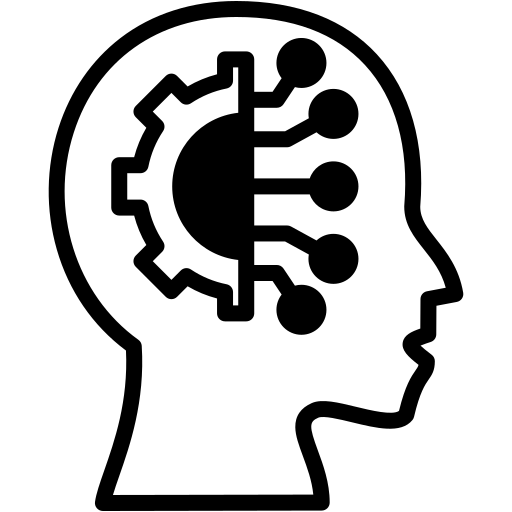
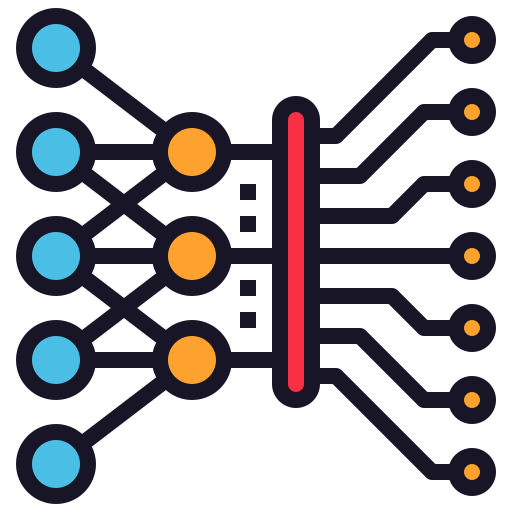
<>|Updated About and Navbar|

diff --git a/src/components/Section/About.jsx b/src/components/Section/About.jsx
@@ -10,6 +10,11 @@ import Docker from "../../assets/docker.png";
 import html from "../../assets/html-5.png";
 import cvision from "../../assets/vision.png";
 import github from "../../assets/git.png";
+import analytical from "../../assets/analytical-chart.png";
+import machinelearning from "../../assets/machine-learning.png";
+import deeplearning from "../../assets/deep-learning.png";
+
+
 
 const skills = [
   { name: "React", icon: structureIcon },
@@ -20,6 +25,9 @@ const skills = [
   { name: "HTML", icon: html },
   { name: "Computer Vision", icon: cvision },
   { name: "Git", icon: github },
+  { name: "Data Analysis", icon: analytical },
+  { name: "Machine Learning", icon: machinelearning },
+  { name: "Deep Learning", icon: deeplearning },
 ];
 
 export const About = () => {
@@ -70,11 +78,14 @@ export const About = () => {
             {skills.map((skill, i) => (
               <SwiperSlide key={i}>
                 <div
-  className="bg-gray-100 hover:bg-gray-200
-             dark:bg-gray-900 dark:hover:bg-gray-800
+  className="bg-transparent
+             hover:bg-gray-200/40
+             dark:hover:bg-white/10
              transition p-4 rounded-xl
-             flex flex-col items-center justify-center gap-2 h-32"
+             flex flex-col items-center justify-center gap-2 h-32
+             backdrop-blur-sm"
 >
+
 
                   <img
                     src={skill.icon}

diff --git a/src/components/Navbar.jsx b/src/components/Navbar.jsx
@@ -79,7 +79,7 @@ export const Navbar = ({ menuOpen, setMenuOpen }) => {
             ))}
 
             {/* 🌗 Theme Toggle */}
-            <button
+            {/* <button
               onClick={handleThemeToggle}
               className="ml-4 p-2 rounded-full 
                          bg-gray-200 dark:bg-gray-800
@@ -91,7 +91,7 @@ export const Navbar = ({ menuOpen, setMenuOpen }) => {
               ) : (
                 <Moon className="w-5 h-5 text-gray-900" />
               )}
-            </button>
+            </button> */}
           </div>
 
         </div>

diff --git a/src/components/Loadingscreen.jsx b/src/components/Loadingscreen.jsx
@@ -2,7 +2,7 @@ import { useEffect, useState } from "react";
 
 export const LoadingScreen = ({ onComplete }) => {
   const [text, setText] = useState("");
-  const fullText = "Almost there.!!";
+  const fullText = "<Hello World/>";
 
   useEffect(() => {
     let index = 0;
